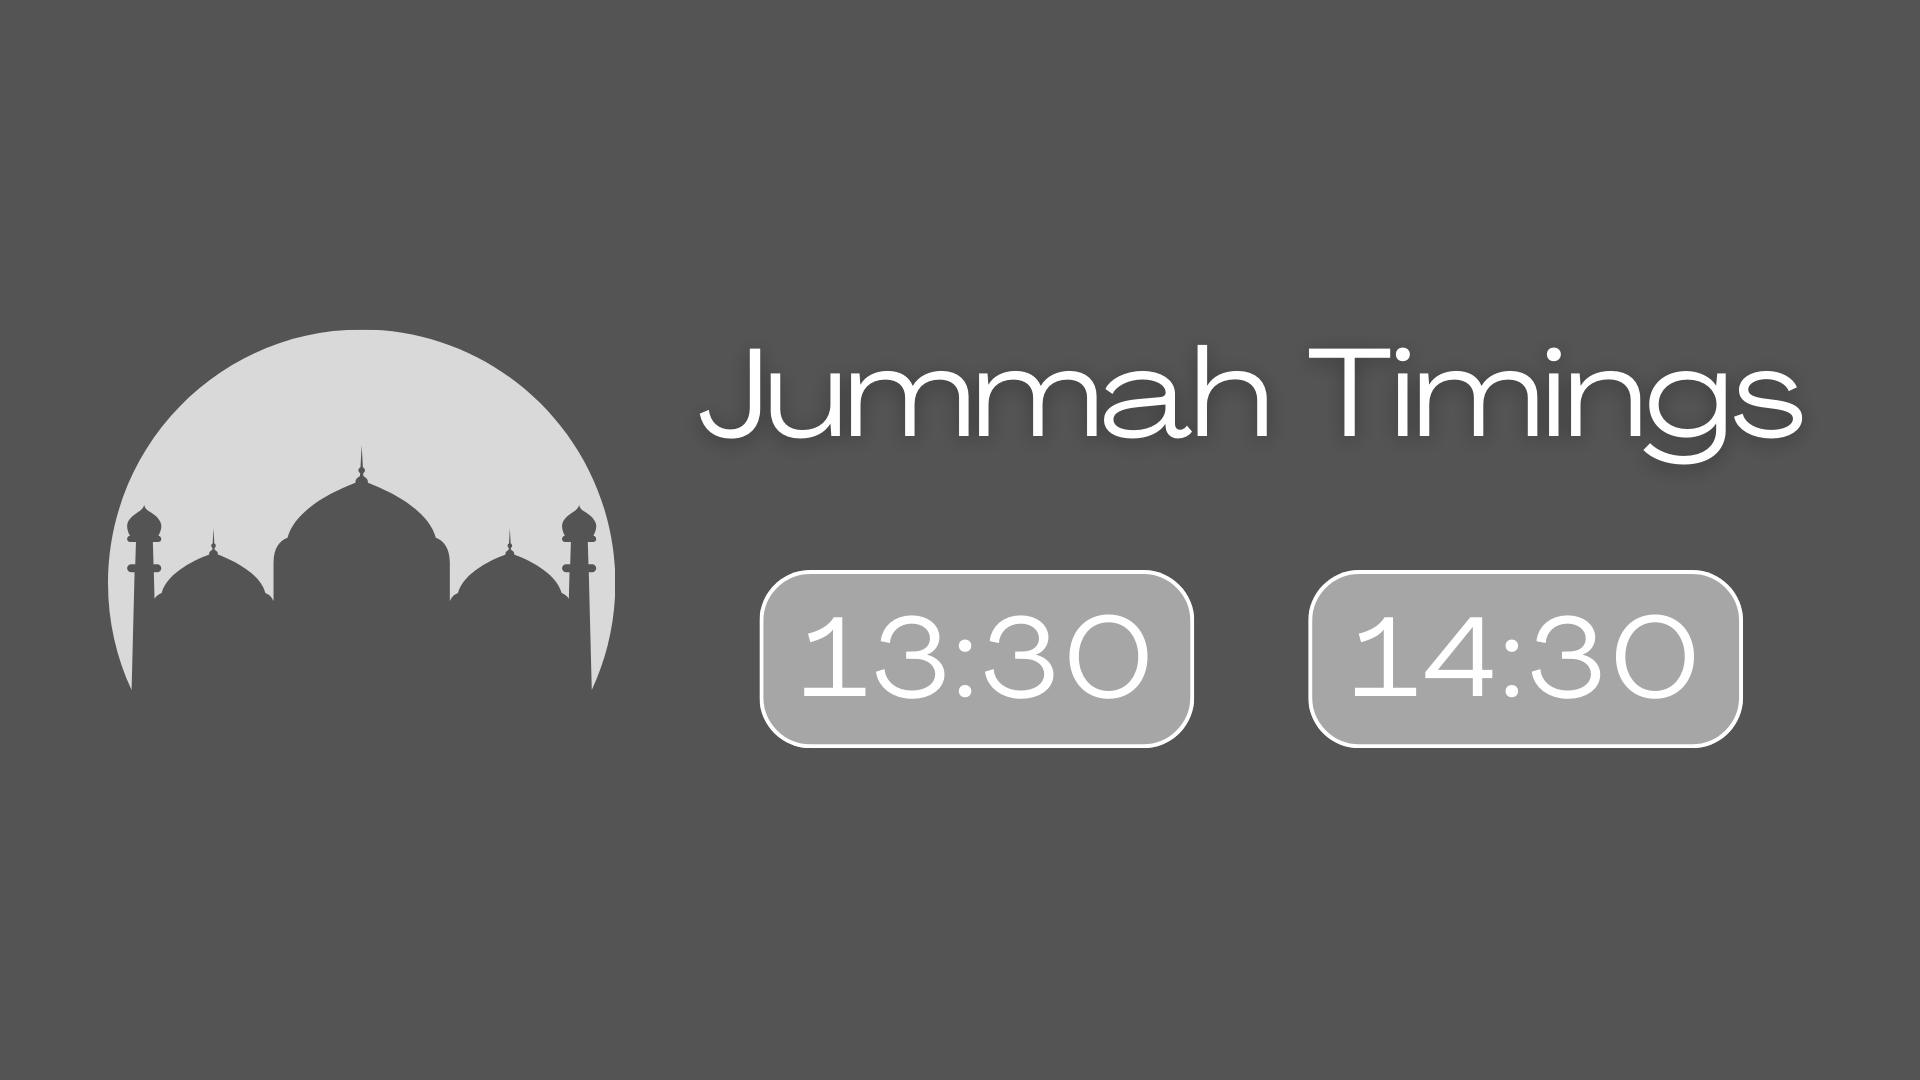
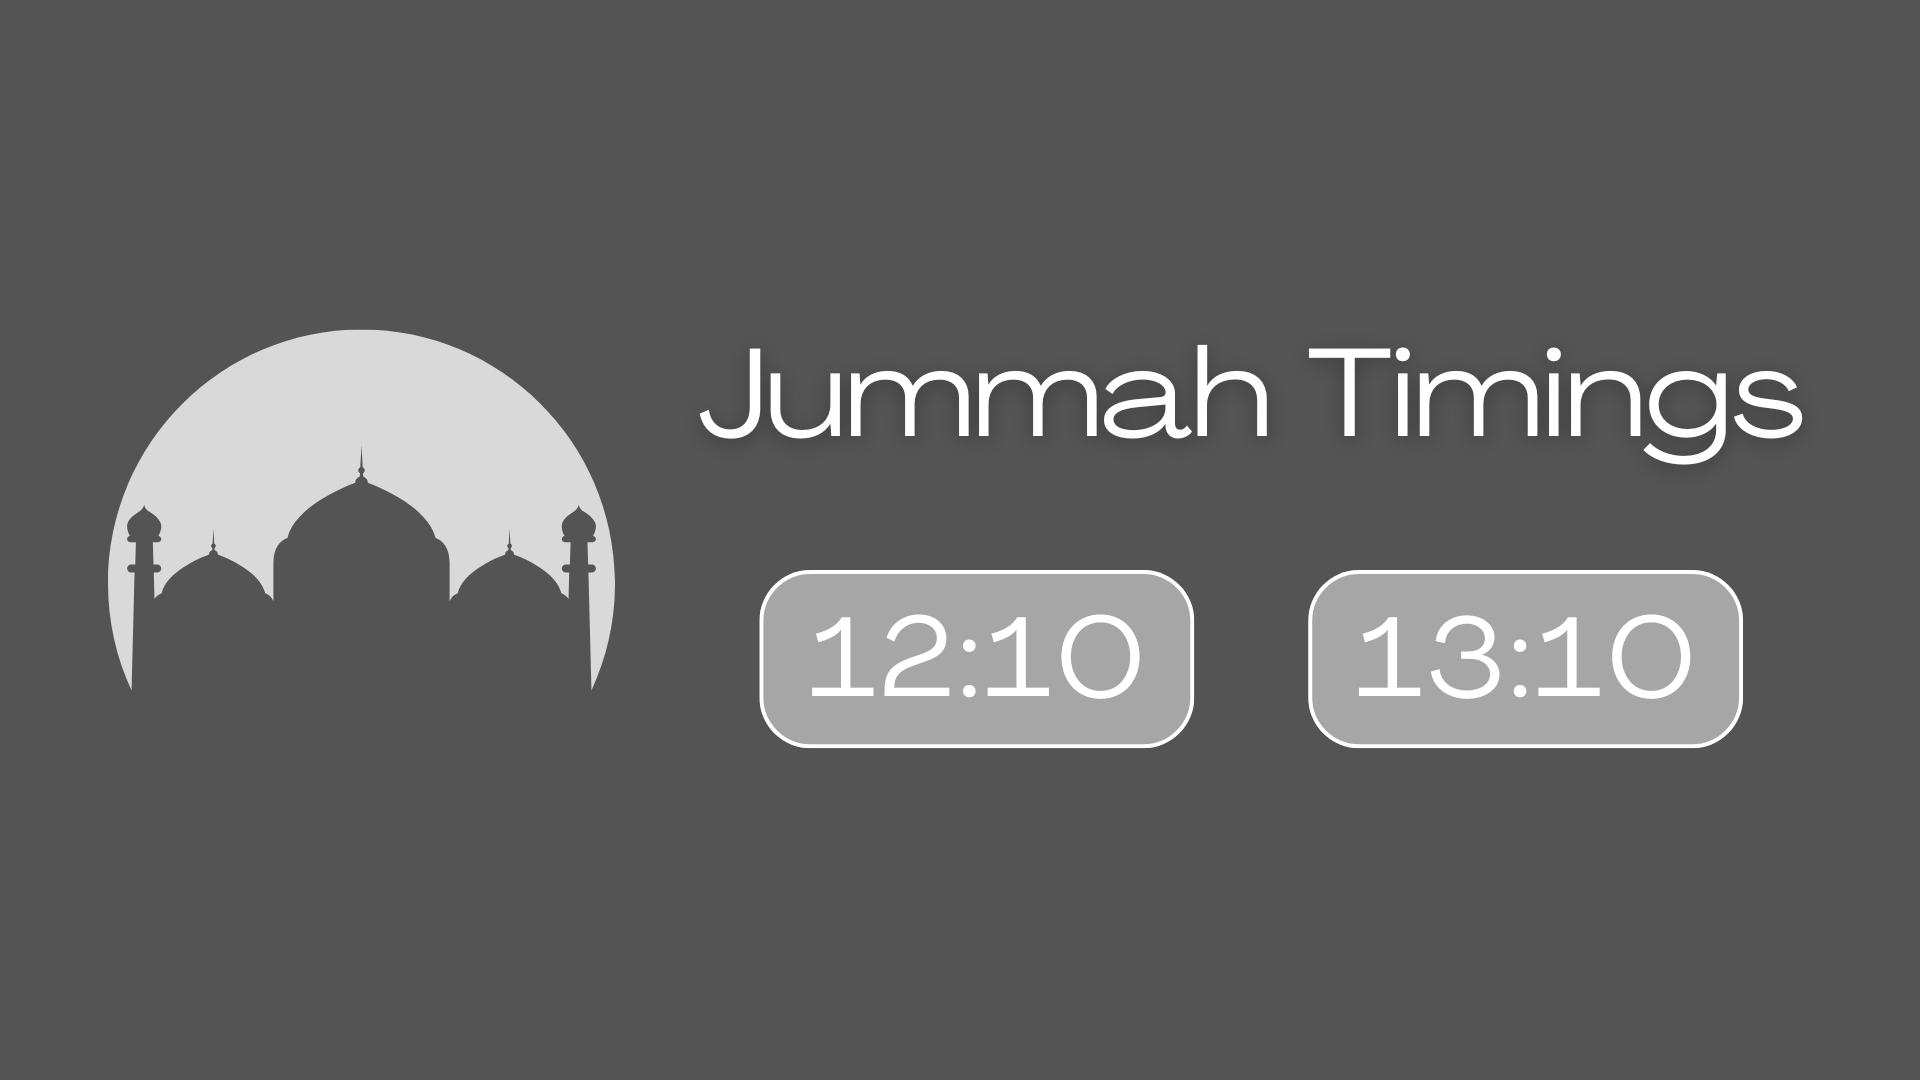
Update jummah

Changed region(s): [[0.4062, 0.55, 0.5938, 0.6417], [0.7188, 0.55, 0.9062, 0.6417]]

diff --git a/src/App.js b/src/App.js
@@ -1,5 +1,6 @@
 import './App.css';
 import React, { Component} from 'react';
+import { useNavigate,useHistory } from "react-router-dom";
 import logo from './Assets/Logo.jpg'
 import MainView from './Components/MainView/MainView';
 
@@ -12,12 +13,6 @@ export default class MainApp extends Component {
     }
   }
 
-  setView(area){
-    this.setState({applicationView:area})
-  }
-  componentDidMount(){
-  }
-
   render(){
       return (
         <div id="Main">
@@ -28,9 +23,10 @@ export default class MainApp extends Component {
                 <div id='SelectionAreaTitle'>Select<br/>Mosque Area</div>
               </div>
               <div id='ButtonArea'>
-                <button id='Main Hall' className='ViewButton' onClick={()=>{this.setView("Main Hall")}}>Main Hall</button>
-                <button id='Hallway' className='ViewButton' onClick={()=>{this.setView("Hallway")}}>Hallway</button>
-                <button id='Poll' className='ViewButton' onClick={()=>{this.setView("Poll")}}>Poll</button>
+              
+                <button id='Main Hall' className='ViewButton' onClick={() =>  {window.location.href='/mainhall'}}>Main Hall</button>
+                <button id='Hallway' className='ViewButton' onClick={() =>  {window.location.href='/hallway'}}>Hallway</button>
+                <button id='Poll' className='ViewButton' onClick={() =>  {window.location.href='/poll'}}>Poll</button>
               </div>
             </div>)
             :

diff --git a/src/index.js b/src/index.js
@@ -1,17 +1,22 @@
 import React from 'react';
 import ReactDOM from 'react-dom/client';
+import {BrowserRouter as Router,Routes,Route} from "react-router-dom";
 import './index.css';
 import App from './App';
+import MainView from './Components/MainView/MainView';
 import reportWebVitals from './reportWebVitals';
 
 const root = ReactDOM.createRoot(document.getElementById('root'));
 root.render(
   <React.StrictMode>
-    <App />
+    {/* <App /> */}
+    <Router>
+      <Routes>
+        <Route path="/" element={<App />} />
+        <Route path="/mainhall" element={<MainView MosqueArea={"Main Hall"}/>} />
+        <Route path="/hallway" element={<MainView MosqueArea={"Hallway"}/>} />
+        <Route path="/poll" element={<MainView MosqueArea={"Poll"}/>} />
+      </Routes>
+     </Router>
   </React.StrictMode>
 );
-
-// If you want to start measuring performance in your app, pass a function
-// to log results (for example: reportWebVitals(console.log))
-// or send to an analytics endpoint. Learn more: https://bit.ly/CRA-vitals
-reportWebVitals();

diff --git a/src/Configs/timingConfigs.js b/src/Configs/timingConfigs.js
@@ -74,4 +74,4 @@ export const eventTimeFrames = [
                                     {'MainTitle':'Taraweeh','BottomTitle':'Prayer in Progress','Date':'08/04/2024','StartTime':'22:05','EndTime':'23:15'},
                                     {'MainTitle':'Taraweeh','BottomTitle':'Prayer in Progress','Date':'09/04/2024','StartTime':'22:05','EndTime':'23:15'},
                                ]
-export const jummahPrayerTimes = ['13:30','14:30']
+export const jummahPrayerTimes = ['12:10','13:10']

diff --git a/src/Components/MainView/MainView.js b/src/Components/MainView/MainView.js
@@ -526,12 +526,7 @@ export default class MainView extends Component {
     else{
       timings=this.state.tomorrowData
       if (getDayOfWeek(now)=='Thursday'){
-        if (now.toLocaleTimeString()>=jummahPrayerTimes[0]){
-          timings['Zuhur Jamat']=jummahPrayerTimes[1]
-        }
-        else{
           timings['Zuhur Jamat']=jummahPrayerTimes[0]
-        }
       }
       this.setState({tomorrowData:timings})
 

diff --git a/src/Configs/systemConfigs.js b/src/Configs/systemConfigs.js
@@ -1,1 +1,1 @@
-export const appVersion = '© Blackhall Mosque Version 7.18'
+export const appVersion = '© Blackhall Mosque Version 8.1'
